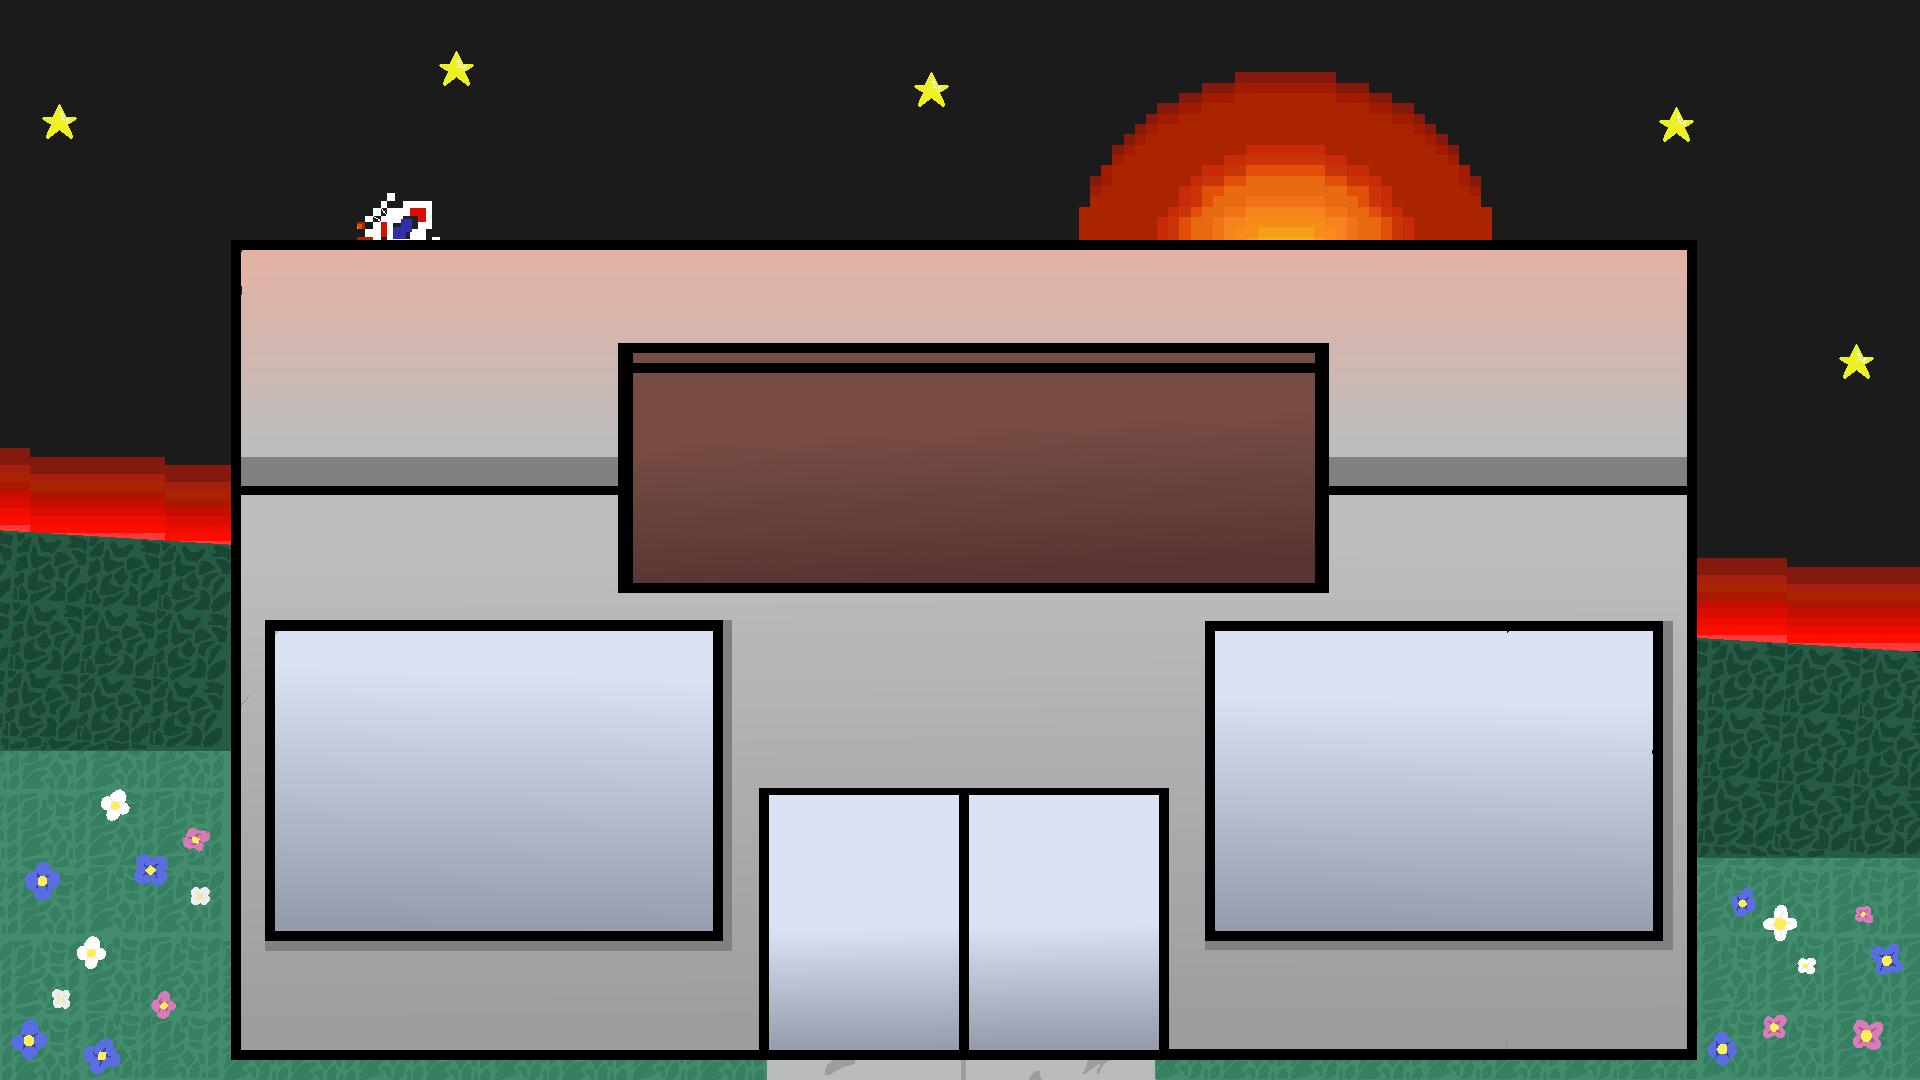
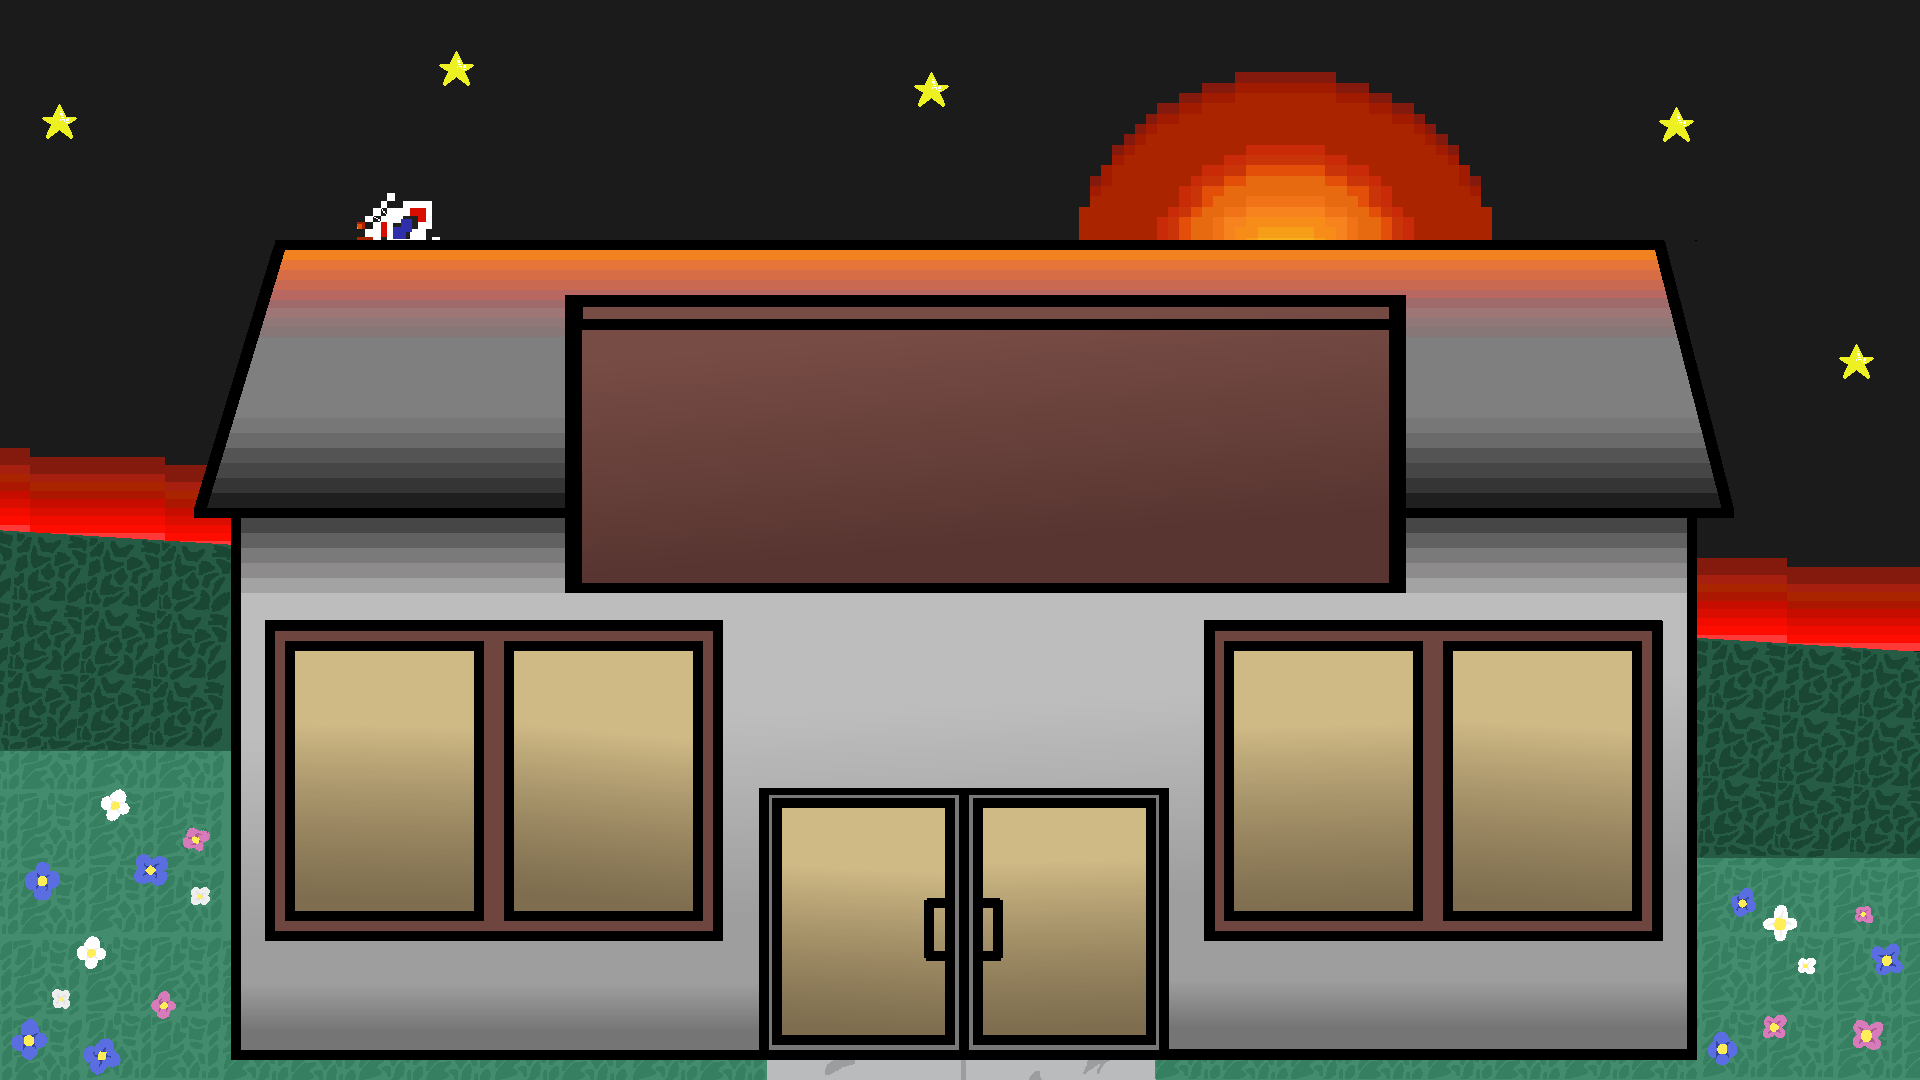
Updated time and title art

diff --git a/Assets/ScoringUI.cs b/Assets/ScoringUI.cs
@@ -9,7 +9,8 @@ public class ScoringUI : MonoBehaviour
     public Text customersTotalText;
     public Text customerNumText;
     public Text avgTimeText;
-    public Text currentTimeText;
+    public Text currentTimeText_min;
+    public Text currentTimeText_seconds;
     public Text scoreText;
 
     // Customer manager
@@ -28,7 +29,8 @@ public class ScoringUI : MonoBehaviour
         // Assign to the Text UI elements
         customerNumText.text = "" + currentCustomer;
         avgTimeText.text = "" + avgTime;
-        currentTimeText.text = "" + 0;
+        currentTimeText_min.text = "" + 0;
+        currentTimeText_seconds.text = "" + 0;
         scoreText.text = "" + 0;
 
         // Set the total number of customers at the beginning of the level
@@ -40,8 +42,8 @@ public class ScoringUI : MonoBehaviour
         customerNumText.text = "" + currentCustomer;
         avgTimeText.text = "" + avgTime;
         //currentTimeText.text = "" + 0;
-        currentTimeText.text = "" + (int)inv.timeSinceOrderTaken;
-
+        currentTimeText_min.text = "" + (int)inv.timeSinceOrderTaken / 60;
+        currentTimeText_seconds.text = "" + (int)inv.timeSinceOrderTaken % 60;  
         // This is put in update because I know it will work here, but I'm not 100% sure it would work in Start()
         customersTotalText.text = "" + totalCustomers;
     }
